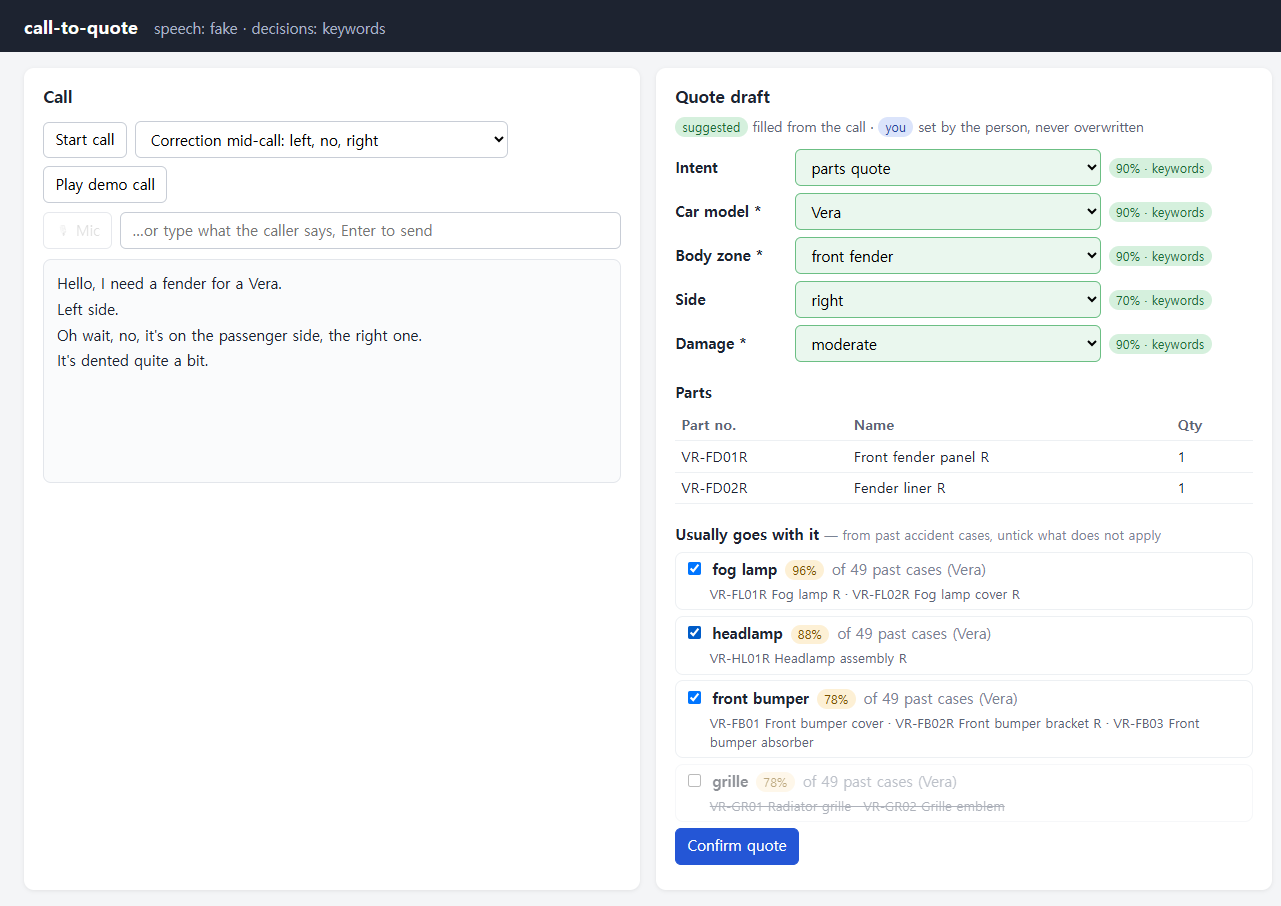
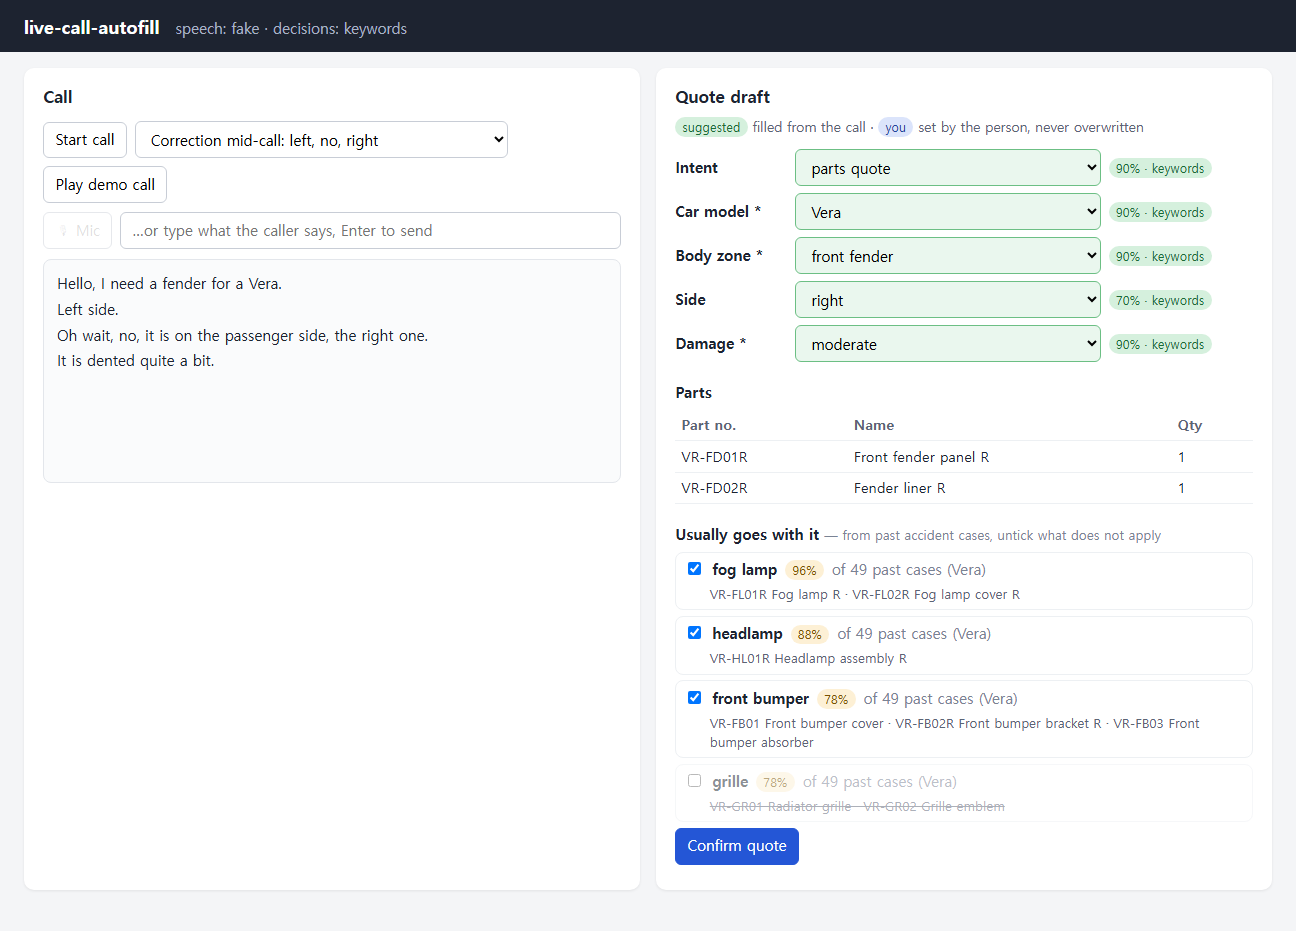
README: current status, measured results, roadmap, partial-decision setting; new screenshots; CTQ_PARTIAL_DECIDE_SECS in .env.example

diff --git a/README.md b/README.md
@@ -1,21 +1,24 @@
-# call-to-quote
+# live-call-autofill
 
 **While a customer is still on the phone, the quote form fills itself in — and the person on the call has the last word.**
 
 A live phone call is turned into text (speech-to-text), a fast *decision model* picks the car, body zone, side and damage level from fixed lists, and the parts quote is pre-filled as **suggestions**. Nothing is sent until the person confirms. Anything the person types is never overwritten by the machine.
 
-![Demo: a caller corrects "left" to "right" and the draft follows](docs/img/demo-correction.png)
+![Demo: a caller corrects "left" to "right", the draft follows, and the damage level still missing is listed as a question to ask](docs/img/demo-correction.png)
 
-> Status: the pipeline, the human-in-the-loop form and the keyless demo work and are tested. The real speech-to-text (ElevenLabs Scribe v2 Realtime) and decision-model (Jev) adapters are being built and measured; see [Roadmap](#roadmap).
+> Status: the pipeline, the human-in-the-loop form and the keyless demo work and are tested. The real speech-to-text (ElevenLabs Scribe v2 Realtime) and decision-model (Jev) adapters are built and measured on staged English test calls: [eval/RESULTS.md](eval/RESULTS.md). Not done: narrowband phone audio, other languages, a real catalog; see [Roadmap](#roadmap).
+
+**What was measured** (22 labelled calls, 102 checks, mostly written by me; 4 staged recordings, English only):
+- Jev filled 74–75 of the 78 field values the caller gave before hang-up, **0 wrong**; all 24 fields that should stay empty stayed empty. At that sample size "0 wrong" bounds the true error rate only loosely (about 3 %).
+- A general LLM (Claude Sonnet 5.5) also had 0 wrong in the same test (77 right); Jev was about 3.5× faster (0.43 s vs 1.5 s per decision), which is what makes re-deciding every few seconds practical. Whether Sonnet's missing probability causes wrong fills in practice was not measured.
+- Deciding on partial speech brought the moment the draft held every expected field forward by 4–23 s on the 4 recordings, with the same final draft and no wrong value shown.
 
 ## Why
 
 This grew out of automating an auto-parts dealership in Korea. The owner estimates that about 95% of orders arrive by phone: a repair shop calls, says something like *"a fender for the Vera — no, not left, the right one"*, and the dealer types it into a parts catalog and then into the dealer's ERP while still talking.
 
-The dealership already runs a version-1 system I built (not in this repository, because it contains customer data and talks to systems I cannot publish):
-- a browser quote tool used every day: pick car and damage, get the parts list from a VIN lookup in the parts catalog;
-- a desktop bot that types the confirmed quote into the dealer ERP through its scripting interface, restricted to an allowlist of screens and functions, refusing anything that looks like delete, print or invoice;
-- caller-ID and recording watchers on the office PC, and a self-healing server that restarts what stops answering.
+The dealership already runs a version-1 system I built: a browser quote tool, a desktop bot that types the confirmed quote into the dealer ERP, and watchers on the office PC. It is not in this repository because it contains customer data.
+Its design, on invented fake systems, is in [legacy-erp-automation](https://github.com/Sungho-Park-DE/legacy-erp-automation).
 
 This repository is the next step, rebuilt from scratch with invented data: **take the typing out of the call itself.**
 
@@ -26,7 +29,7 @@ flowchart LR
   mic[Phone / mic audio] -->|PCM 16 kHz| stt[SpeechToText adapter<br/>ElevenLabs · fake]
   typed[Typed line / demo call] --> call
   stt -->|partial + final segments| call[Call<br/>transcript]
-  call -->|each final segment| dec[Decider adapter<br/>Jev · fake]
+  call -->|each final segment, partials every few seconds| dec[Decider adapter<br/>Jev · fake]
   cat[Catalog<br/>options + parts] -->|choices| dec
   dec -->|answer + confidence| sync{confidence ≥ threshold?}
   sync -->|yes| draft[Draft<br/>suggested value]
@@ -40,7 +43,8 @@ flowchart LR
 **Design rules that come from the real shop:**
 - *The person has the last word.* Machine values are shown as suggestions with their confidence; a value the person set is never overwritten; nothing is created without **Confirm**.
 - *Empty beats wrong.* A low-confidence answer retracts an earlier suggestion instead of leaving a stale guess.
-- *Last mention wins.* Callers correct themselves ("left — no, right"); every final sentence triggers a fresh decision over the whole transcript, and answers to older transcripts are dropped.
+- *Last mention wins.* Callers correct themselves ("left — no, right"); every final sentence, and every few seconds of partial speech, triggers a fresh decision over the whole transcript, and answers to older transcripts are dropped.
+- *Say what is missing.* Fields that are still empty are listed as questions to ask before hanging up ("Side: not heard yet → Which side?"), and a failing service shows a notice instead of ending the call.
 - *When unsure, include.* If the side is unknown, both sides go on the quote — removing a line is easier than adding one.
 
 ## How data shaped the logic
@@ -114,13 +118,14 @@ Open http://127.0.0.1:8800, press **Start call**, then **Play demo call** — or
 
 Tests (about a second, no network): `.venv/bin/python -m pytest -q`
 
-With real engines: set `CTQ_STT=elevenlabs`, `CTQ_DECIDER=jev` and the keys in `.env`; the **Mic** button then streams your microphone.
+With real engines: set `CTQ_STT=elevenlabs`, `CTQ_DECIDER=jev` and the keys in `.env`; the **Mic** button then streams your microphone. `CTQ_PARTIAL_DECIDE_SECS` (default 2.5, 0 = final segments only) sets how often the draft is re-decided while the caller is still talking. Measurements: [eval/RESULTS.md](eval/RESULTS.md).
 
 ## Roadmap
 
-- [ ] ElevenLabs Scribe v2 Realtime adapter (measured on English 16 kHz test calls only)
-- [ ] Jev adapter, and an evaluation on recorded test calls: accuracy per field, latency, and the threshold that keeps wrong suggestions rare
-- [ ] Words that phone speech-to-text gets wrong (model names, part words, numbers; English only so far) — keyword boosting with the catalog's own words
+- [x] ElevenLabs Scribe v2 Realtime adapter and Jev adapter, measured on staged English test calls ([eval/RESULTS.md](eval/RESULTS.md))
+- [x] Keyword boosting with the catalog's own words (`ELEVENLABS_KEYTERMS`), decisions on partial speech, notices instead of a dropped call when a service fails
+- [ ] Narrowband (8 kHz) phone audio, other accents and languages: not measured
+- [ ] Number of Jev calls per minute with partial decisions (cost), and less flicker on fields near the threshold
 - [ ] Phone audio into the PC (handset tap or line adapter) instead of a microphone
 - [ ] Several zones per call (one draft per zone)
 
